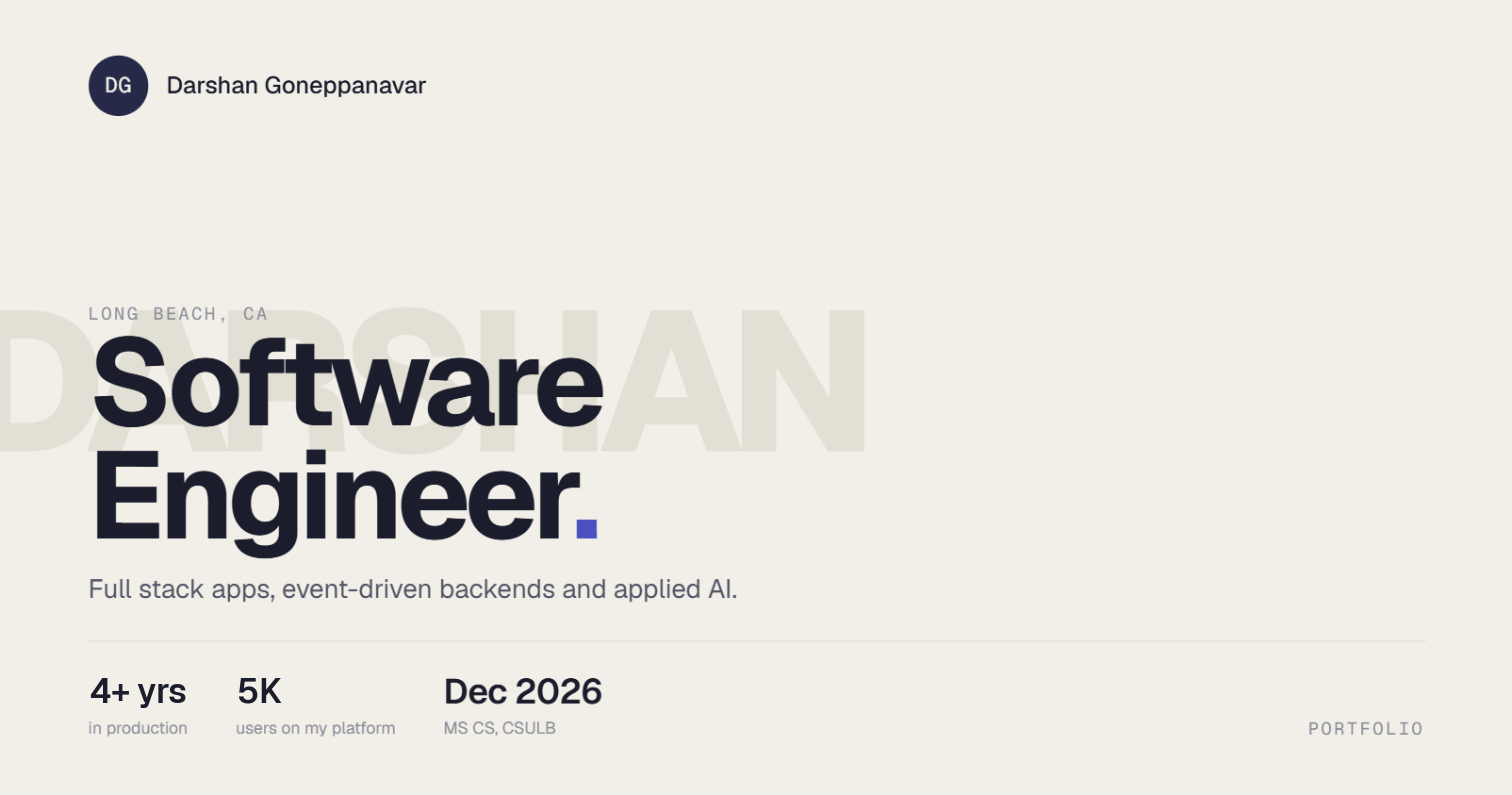
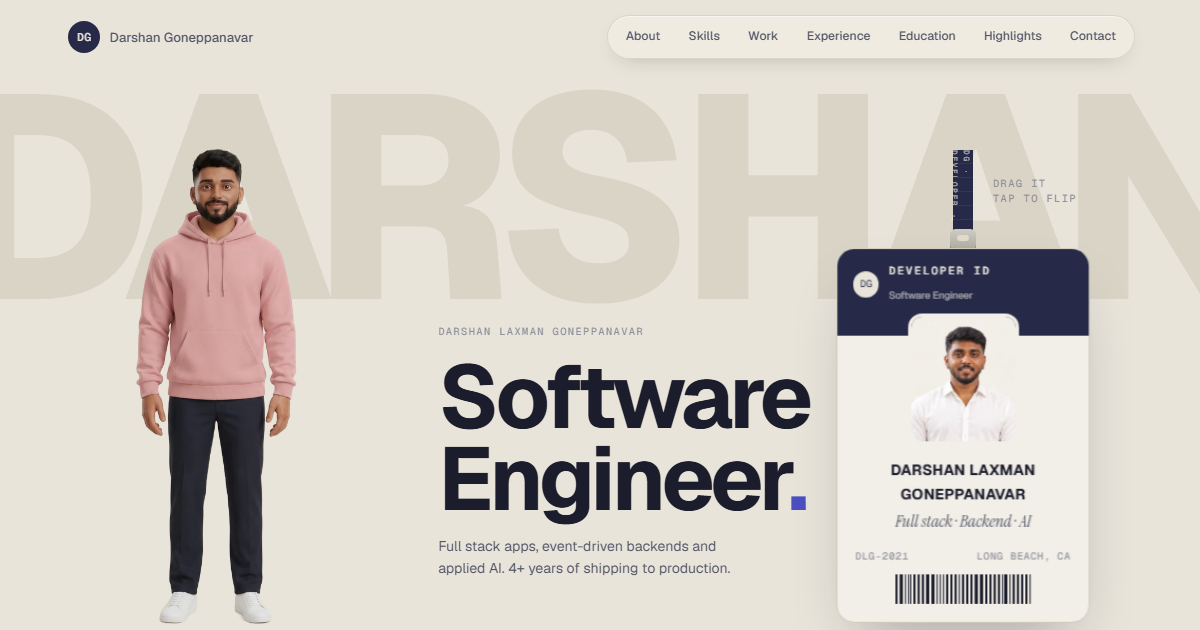
Portfolio v1.2

diff --git a/index.html b/index.html
@@ -23,9 +23,9 @@
     <meta property="og:title" content="Darshan Goneppanavar — Software Engineer" />
     <meta property="og:description" content="Full stack apps, event-driven backends and applied AI. 4+ years of shipping to production." />
     <meta property="og:image" content="https://darshanlg-portfolio.vercel.app/og.png" />
-    <meta property="og:image:width" content="1512" />
-    <meta property="og:image:height" content="795" />
-    <meta property="og:image:alt" content="Darshan Goneppanavar — Software Engineer. 4+ years in production, 5K users, MS CS at CSULB December 2026." />
+    <meta property="og:image:width" content="1200" />
+    <meta property="og:image:height" content="630" />
+    <meta property="og:image:alt" content="Darshan Goneppanavar, Software Engineer: the portfolio hero with a 3D figure of Darshan and his developer ID badge. Full stack apps, event-driven backends and applied AI." />
 
     <meta name="twitter:card" content="summary_large_image" />
     <meta name="twitter:title" content="Darshan Goneppanavar — Software Engineer" />
